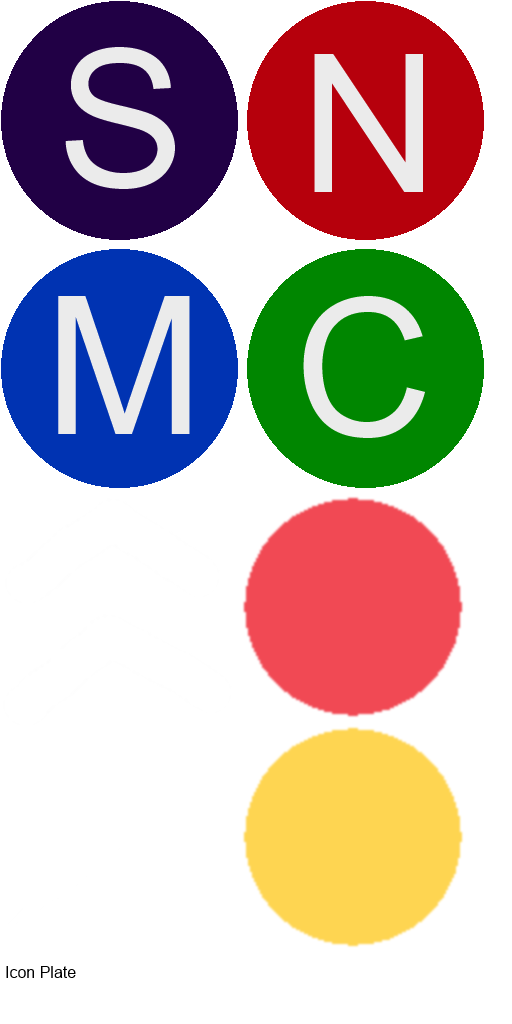
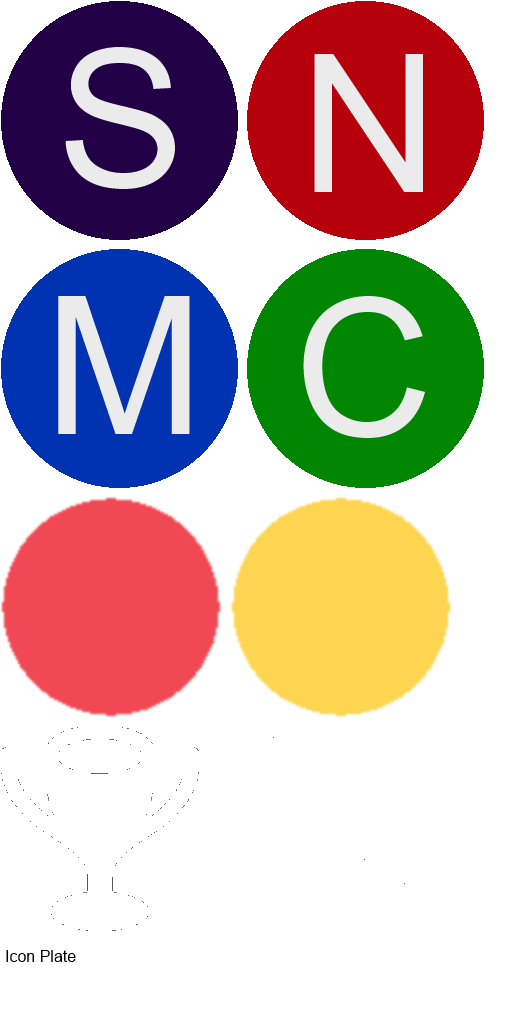
bug fixes. rendering-deco wip

Changed region(s): [[0.0, 0.4688, 0.9062, 0.9375], [0.0, 0.9062, 0.1562, 0.9688]]

diff --git a/xegame/rendercomponent.cpp b/xegame/rendercomponent.cpp
@@ -38,11 +38,8 @@ RenderComponent::RenderComponent( Engine* _engine, const char* asset )
 	for( int i=0; i<NUM_MODELS; ++i ) {
 		model[i] = 0;
 	}
-	for( int i=0; i<NUM_DECO; ++i ) {
-		deco[i] = 0;
-		decoDuration[i] = 0;
-	}
 	radiusOfBase = 0;
+	groundMark = 0;
 
 	mainAsset = StringPool::Intern( asset );
 }
@@ -53,9 +50,7 @@ RenderComponent::~RenderComponent()
 	for( int i=0; i<NUM_MODELS; ++i ) {
 		GLASSERT( model[i] == 0 );
 	}
-	for( int i=0; i<NUM_DECO; ++i ) {
-		GLASSERT( deco[i] == 0 );
-	}
+	GLASSERT( groundMark == 0 );
 }
 
 
@@ -123,13 +118,10 @@ void RenderComponent::OnRemove()
 			model[i] = 0;
 		}
 	}
-	for( int i=0; i<NUM_DECO; ++i ) {
-		if ( deco[i] ) {
-			engine->FreeModel( deco[i] );
-			deco[i] = 0;
-		}
+	if ( groundMark ) {
+		engine->FreeModel( groundMark );
+		groundMark = 0;
 	}
-
 }
 
 
@@ -339,66 +331,76 @@ int RenderComponent::DoTick( U32 deltaTime )
 		}
 	}
 
-	// The decos:
-	for( int i=0; i<NUM_DECO; ++i ) {
-		if ( deco[i] ) {
-			decoDuration[i] -= deltaTime;
-			if ( decoDuration[i] < 0 ) {
-				engine->FreeModel( deco[i] );
-				deco[i] = 0;
-				decoDuration[i] = 0;
+	if ( groundMark ) {
+		Vector3F pos = model[0]->Pos();
+		pos.y += 0.01f;
+		groundMark->SetPos( pos );
+	}
+
+	{
+		// Shove this off the particle renderer, as a 2nd layer??
+
+		int i=0;
+		static const float DY = 0.4f;
+		const Rectangle2F& aabb = model[0]->AABB();
+		Vector3F pos = model[0]->Pos();
+		pos.y = aabb.max.y;
+
+		while ( i < icons.Size() ) {
+			icons[i].time -= (int)deltaTime;
+			if ( icons[i].time > 0 ) {
+
 			}
+
 		}
 	}
 
-	if ( deco[DECO_FOOT] ) {
-		Vector3F pos = model[0]->Pos();
-		pos.y += 0.01f;
-		deco[DECO_FOOT]->SetPos( pos );
-		tick = 0;
-	}
-	if ( deco[DECO_HEAD] ) {
-		Vector3F pos = model[0]->Pos();
-		pos.y += model[0]->AABB().SizeY() + 0.4f;
-
-		Quaternion camera = engine->camera.Quat();
-		Matrix4 camMat;
-		camera.ToMatrix( &camMat );
-		float degrees = camMat.CalcRotationAroundAxis( 1 );
-	
-		deco[DECO_HEAD]->SetPos( pos );
-		deco[DECO_HEAD]->SetYRotation( degrees );
-		tick = 0;
-	}
 	return tick;
 }
 
 
-void RenderComponent::Deco( const char* asset, int slot, int duration )
+void RenderComponent::AddDeco( const char* asset, int duration )
 {
-	GLASSERT( slot < NUM_DECO );
-	if ( deco[slot] ) {
-		engine->FreeModel( deco[slot] );
-		deco[slot] = 0;
+	Icon* icon = icons.PushArr(1);
+	icon->model = engine->AllocModel( "iconHeadPlate" );
+	icon->time = duration;
+
+	Vector3F pos = { 0, 0, 0 };	// wait for DoTick to get the pos correct.
+	icon->model->SetPos( pos );	
+	icon->model->userData = parentChit;
+	icon->model->SetFlag( MODEL_CLICK_THROUGH );
+
+	Texture* texture = icon->model->GetResource()->atom[0].texture;
+	Texture::TableEntry te;
+	texture->GetTableEntry( asset, &te );
+	GLASSERT( !te.name.empty() );
+
+	icon->model->SetTextureXForm( te.uvXForm.x, te.uvXForm.y, te.uvXForm.z, te.uvXForm.w );
+	icon->model->SetTextureClip( te.clip.x, te.clip.y, te.clip.z, te.clip.w );
+}
+
+
+void RenderComponent::SetGroundMark( const char* asset )
+{
+	if ( groundMark ) {
+		engine->FreeModel( groundMark );
+		groundMark = 0;
 	}
-	if ( duration > 0 ) {
-		decoDuration[slot] = duration;
-		const ModelResource* res = ModelResourceManager::Instance()
-			->GetModelResource( slot == DECO_FOOT ? "iconPlate" : "iconHeadPlate" );
-		deco[slot] = engine->AllocModel( res );
+	if ( asset && *asset ) {
+		groundMark = engine->AllocModel( "iconPlate" );
 		Vector3F pos = model[0]->Pos();
 		pos.y = 0.01f;
-		deco[slot]->SetPos( pos );	
-		deco[slot]->userData = parentChit;
-		deco[slot]->SetFlag( MODEL_CLICK_THROUGH );
+		groundMark->SetPos( pos );	
+		groundMark->userData = parentChit;
+		groundMark->SetFlag( MODEL_CLICK_THROUGH );
 
-		Texture* texture = deco[slot]->GetResource()->atom[0].texture;
+		Texture* texture = groundMark->GetResource()->atom[0].texture;
 		Texture::TableEntry te;
 		texture->GetTableEntry( asset, &te );
 		GLASSERT( !te.name.empty() );
 
-		deco[slot]->SetTextureXForm( te.uvXForm.x, te.uvXForm.y, te.uvXForm.z, te.uvXForm.w );
-		deco[slot]->SetTextureClip( te.clip.x, te.clip.y, te.clip.z, te.clip.w );
+		groundMark->SetTextureXForm( te.uvXForm.x, te.uvXForm.y, te.uvXForm.z, te.uvXForm.w );
+		groundMark->SetTextureClip( te.clip.x, te.clip.y, te.clip.z, te.clip.w );
 	}
 }
 

diff --git a/scenes/gamescene.cpp b/scenes/gamescene.cpp
@@ -723,7 +723,7 @@ void GameScene::ItemTapped( const gamui::UIItem* item )
 			}
 		}
 	}
-	if ( /*item == &freeCameraButton || */ item == &uiMode[UI_BUILD] || item == &uiMode[UI_VIEW] || item == &uiMode[UI_AVATAR] ) {
+	if ( item == &uiMode[UI_BUILD] || item == &uiMode[UI_VIEW] || item == &uiMode[UI_AVATAR] ) {
 		// Set it to track nothing; if it needs to track something, that will
 		// be set by future mouse actions or DoTick
 		CameraComponent* cc = sim->GetChitBag()->GetCamera( sim->GetEngine() );
@@ -1033,10 +1033,19 @@ void GameScene::DoTick( U32 delta )
 	str.Format( "Date %.2f\n%s", NewsHistory::Instance()->AgeF(), sd.name.c_str() );
 	dateLabel.SetText( str.c_str() );
 
+	// Set the states: VIEW, BUILD, AVATAR. Avatar is 
+	// disabled if there isn't one...
 	Chit* playerChit = sim->GetPlayerChit();
+	if ( !playerChit ) {
+		if ( uiMode[UI_AVATAR].Down() ) {
+			uiMode[UI_VIEW].SetDown();
+		}
+	}
+	uiMode[UI_AVATAR].SetEnabled( playerChit != 0 );
 	if ( uiMode[UI_AVATAR].Down() ) {
 		chitFaceToTrack = playerChit ? playerChit->ID() : 0;
 	}
+
 	Chit* track = sim->GetChitBag()->GetChit( chitFaceToTrack );
 	faceWidget.SetFace( &uiRenderer, track ? track->GetItem() : 0 );
 	SetBars( track );

diff --git a/xegame/rendercomponent.h b/xegame/rendercomponent.h
@@ -27,7 +27,6 @@
 #include "../grinliz/glmatrix.h"
 #include "../grinliz/glcolor.h"
 
-
 class Engine;
 class ModelResource;
 class Model;
@@ -107,7 +106,8 @@ public:
 	void Detach( int hardpoint );
 
 	// --- Decoration --- //
-	void Deco( const char* asset, int slot, int duration );
+	void SetGroundMark( const char* asset );
+	void AddDeco( const char* name, int duration );
 
 private:
 	int CalcAnimation() const;
@@ -118,8 +118,16 @@ private:
 	grinliz::IString		mainAsset;
 
 	Model*					model[ NUM_MODELS ];
-	Model*					deco[ NUM_DECO ];
-	int						decoDuration[ NUM_DECO ];
+	Model*					groundMark;
+
+	// Using gamui to do the deco icons seems to make a lot more sense, but
+	// there are challenges: 1) managing lots of gamui images, 2) getting
+	// the size xform correct, 3) culling
+	struct Icon {
+		Model*	model;
+		int		time;
+	};
+	grinliz::CDynArray< Icon > icons;
 };
 
 #endif // RENDER_COMPONENT_INCLUDED

diff --git a/game/lumoschitbag.cpp b/game/lumoschitbag.cpp
@@ -27,6 +27,7 @@
 #include "../engine/model.h"
 #include "../engine/engine.h"
 #include "../engine/loosequadtree.h"
+#include "../engine/particle.h"
 
 #include "../script/battlemechanics.h"
 #include "../script/itemscript.h"
@@ -205,6 +206,8 @@ Chit* LumosChitBag::NewBuilding( const Vector2I& pos, const char* name, int team
 	sp.port = 1;
 	worldMap->SetRandomPort( sp );
 #endif
+
+	engine->particleSystem->EmitPD( "constructionDone", ToWorld3F( pos ), V3F_UP, 0 );
 
 	return chit;
 }

diff --git a/grinliz/glstringutil.h b/grinliz/glstringutil.h
@@ -124,13 +124,6 @@ public:
 										Validate();
 									}
 
-#if 0
-	// fixme: inconsistent with += behavior
-	CStr( int value )				{	GLASSERT(sizeof(*this) == ALLOCATE );		// not required for class to work, but certainly the intended design
-										buf[0] = 0; 
-										SNPrintf( buf, ALLOCATE, "%d", value );
-										Validate();
-#endif									}
 	~CStr()	{}
 
 	const char* c_str()	const			{ return buf; }

diff --git a/engine/particle.h b/engine/particle.h
@@ -81,7 +81,7 @@ struct ParticleStream
 // SHALLOW
 struct ParticleDef
 {
-	grinliz::CStr<16> name;
+	grinliz::CStr<64> name;
 
 	enum { ONCE, CONTINUOUS };
 	int time;		// "once" "continuous"
